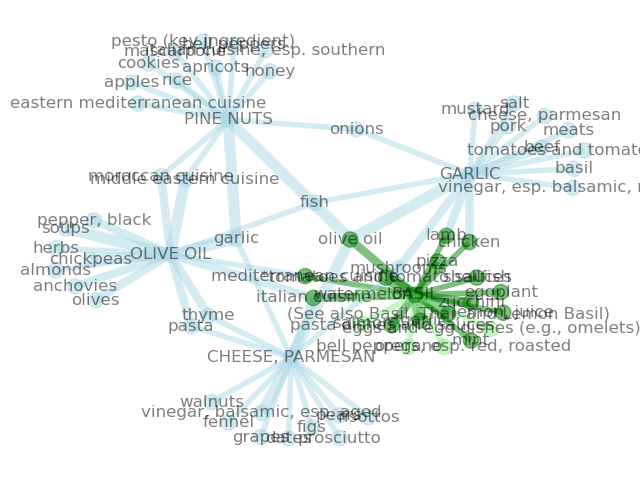
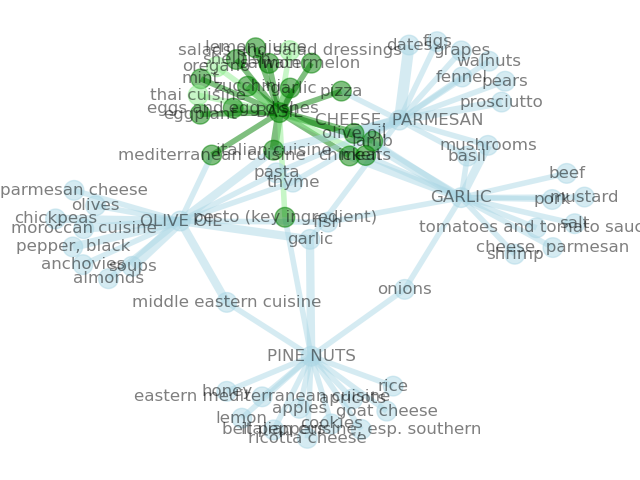
Update network graph visualization

diff --git a/visualize_graph.py b/visualize_graph.py
@@ -7,13 +7,13 @@ import matplotlib.pyplot as plt
 df = pd.read_pickle('./.convert_rank_to_weight_df.pkl')
 bf = pd.read_pickle('./.jac_sim_df.pkl')
 
-#v = ['BASIL']
+#v = ['BANANAS']
 v = ['BASIL', 'CHEESE, PARMESAN', 'GARLIC', 'OLIVE OIL', 'PINE NUTS']
 a = v[0]
 
 if len(v) < 2:
     v = []
-    n = 6
+    n = 11
     print("Generating seed list from top five matching ingredients") 
     Bf = bf[a].nlargest(n)
     for idx in Bf.index:
@@ -85,7 +85,7 @@ nx.draw(GH, pos,
         node_color=node_colors,
         edgelist=edge_colors.keys(), 
         edge_color=edge_colors.values(),
-        node_size=120,
+        node_size=200,
         width=ws,
         alpha=0.5,
         with_labels=True)
